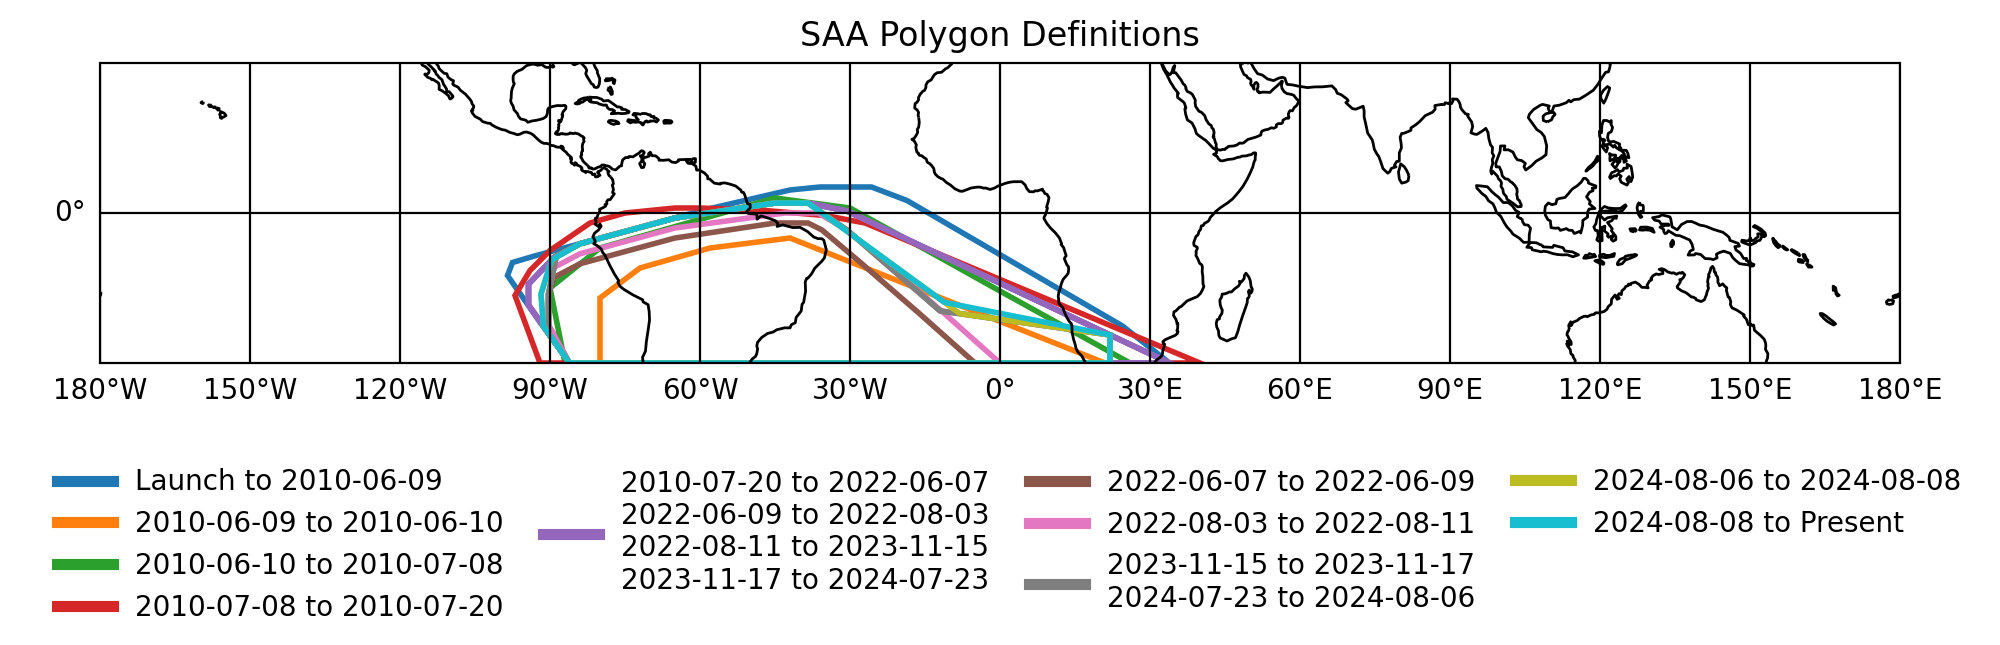
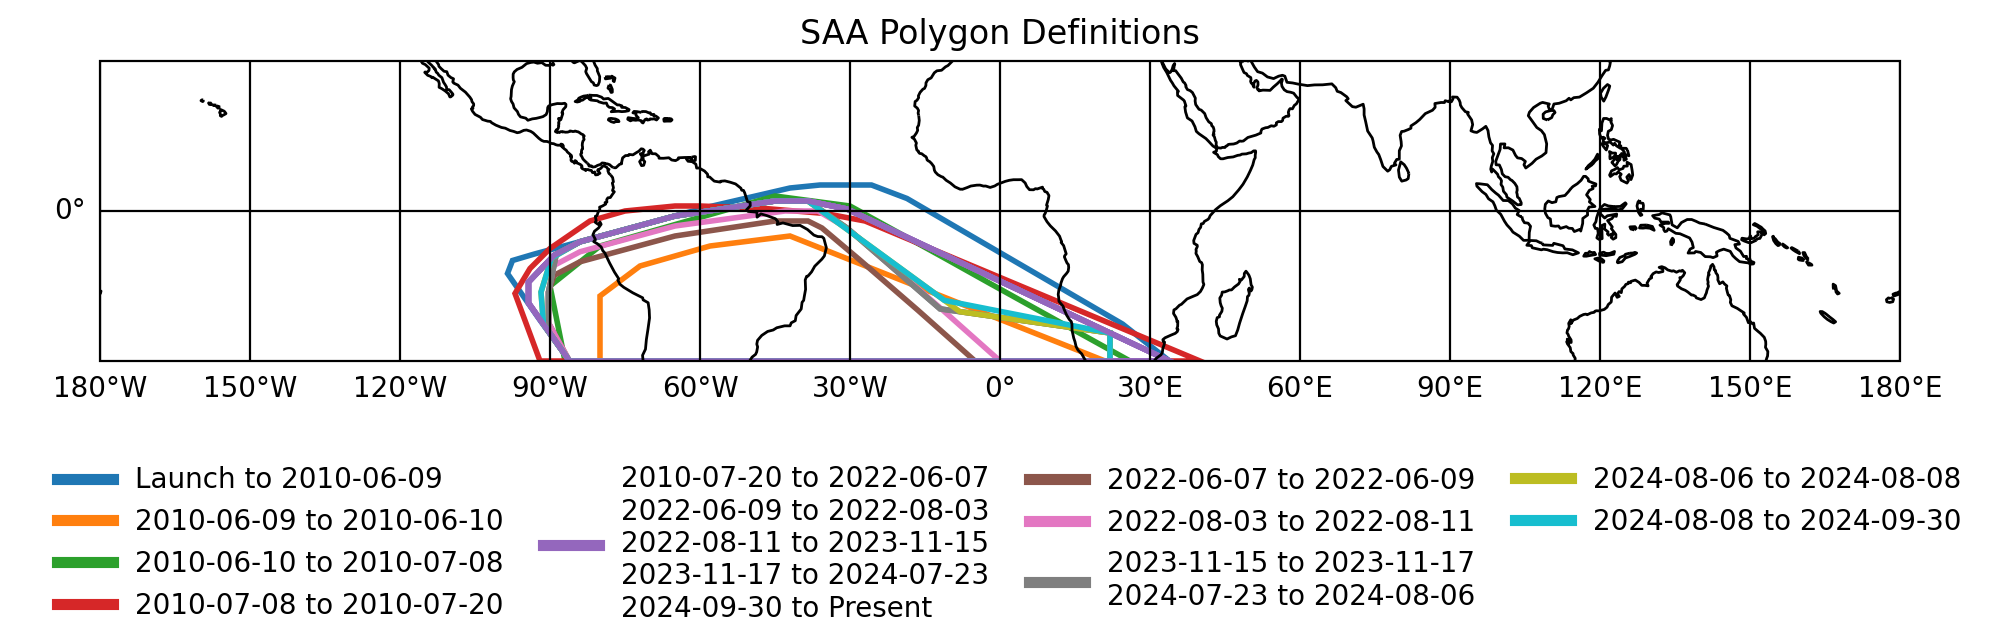
Updating the GBM SAA polygon (#49)
* add latest SAA polygon, which is a reversion to polygon 5

* update unit tests to include new polygon

* updated documentation to include latest SAA change

* add GbmSaaPolygon15 to __all__ and version bump to denote the change

---------

diff --git a/src/gdt/missions/fermi/gbm/saa.py b/src/gdt/missions/fermi/gbm/saa.py
@@ -36,8 +36,8 @@ __all__ = ['GbmSaaPolygon1', 'GbmSaaPolygon2', 'GbmSaaPolygon3',
            'GbmSaaPolygon4', 'GbmSaaPolygon5', 'GbmSaaPolygon6',
            'GbmSaaPolygon7', 'GbmSaaPolygon8', 'GbmSaaPolygon9',
            'GbmSaaPolygon10', 'GbmSaaPolygon11', 'GbmSaaPolygon12',
-           'GbmSaaPolygon13', 'GbmSaaPolygon14', 'GbmSaa',
-           'GbmSaaCollection']
+           'GbmSaaPolygon13', 'GbmSaaPolygon14', 'GbmSaaPolygon15',
+           'GbmSaa', 'GbmSaaCollection']
 
 
 class GbmSaaPolygon1(SouthAtlanticAnomaly):
@@ -234,8 +234,7 @@ class GbmSaaPolygon13(SouthAtlanticAnomaly):
 
 class GbmSaaPolygon14(SouthAtlanticAnomaly):
     """The coordinates of the GBM SAA boundary in latitude and East longitude
-    used from 00:00:00 UTC on August 8, 2024 until mission end which uses a
-    placeholder value of Jan 1, 2050 for now.
+    used from 00:00:00 UTC on August 8, 2024 until 19:20:45 UTC on September 30, 2024.
 
     Note: Minor adjustment to GbmSaaPolygon13 which reduces the number of local
     particle triggers occurring during SAA exit (eastern side of polygon).
@@ -248,6 +247,18 @@ class GbmSaaPolygon14(SouthAtlanticAnomaly):
                   -45.000, -38.400, -30.605, -11.123461787369832, 22.000]
 
     _time_range = Range(Time(744768005, format='fermi'),
+                        Time(749416625, format='fermi'))
+
+
+class GbmSaaPolygon15(GbmSaaPolygon5):
+    """The coordinates of the GBM SAA boundary in latitude and East longitude
+    used from 19:20:45 UTC on September 30, 2024 until mission end which uses a
+    placeholder value of Jan 1, 2050 for now.
+
+    Note: Reversion to the same shape as GbmSaaPolygon5 due to too many
+    local particle triggers.
+    """
+    _time_range = Range(Time(749416850, format='fermi'),
                         Time(1546300805, format='fermi'))
 
 
@@ -267,7 +278,7 @@ class GbmSaaCollection():
             GbmSaaPolygon4(), GbmSaaPolygon5(), GbmSaaPolygon6(),
             GbmSaaPolygon7(), GbmSaaPolygon8(), GbmSaaPolygon9(),
             GbmSaaPolygon10(), GbmSaaPolygon11(), GbmSaaPolygon12(),
-            GbmSaaPolygon13(), GbmSaaPolygon14()]
+            GbmSaaPolygon13(), GbmSaaPolygon14(), GbmSaaPolygon15()]
         self.sort()
 
     def at(self, time: Time):

diff --git a/tests/missions/fermi/gbm/test_saa.py b/tests/missions/fermi/gbm/test_saa.py
@@ -44,7 +44,7 @@ class TestGbmSaa(unittest.TestCase):
         self.t_polygons = [
             148900505, 297842765, 299086681, 300808412, 488816193,
             676400255, 678869577, 681588310, 701846688, 721849115,
-            732696665, 744059705, 744716255, 1145534405
+            732696665, 744059705, 744716255, 747092315, 1147858827
         ]
 
 

diff --git a/src/gdt/missions/fermi/__init__.py b/src/gdt/missions/fermi/__init__.py
@@ -21,4 +21,4 @@
 # implied. See the License for the specific language governing permissions and limitations under the
 # License.
 #
-__version__ = '2.1.2'
+__version__ = '2.1.3'

diff --git a/docs/missions/fermi/gbm/saa.rst b/docs/missions/fermi/gbm/saa.rst
@@ -14,6 +14,7 @@
 .. |GbmSaaPolygon12| replace:: :class:`~gdt.missions.fermi.gbm.saa.GbmSaaPolygon12`
 .. |GbmSaaPolygon13| replace:: :class:`~gdt.missions.fermi.gbm.saa.GbmSaaPolygon13`
 .. |GbmSaaPolygon14| replace:: :class:`~gdt.missions.fermi.gbm.saa.GbmSaaPolygon14`
+.. |GbmSaaPolygon15| replace:: :class:`~gdt.missions.fermi.gbm.saa.GbmSaaPolygon15`
 .. |GbmSaaCollection| replace:: :class:`~gdt.missions.fermi.gbm.saa.GbmSaaCollection`
 .. |FermiEarthPlot| replace:: :class:`~gdt.missions.fermi.plot.FermiEarthPlot`
 
@@ -64,9 +65,12 @@ used over the course of the mission:
 * |GbmSaaPolygon13| **(August 6, 2024 - August 8, 2024):** Minor modification
   to GbmSaaPolygon12 to reduce local particle triggers occurring
   on the western edge of the SAA boundary.
-* |GbmSaaPolygon14| **(August 8, 2024 - Present):** Minor modification
+* |GbmSaaPolygon14| **(August 8, 2024 - September 30, 2024):** Minor modification
   to GbmSaaPolygon13 to reduce local particle triggers occurring
   on the eastern edge of the SAA boundary.
+* |GbmSaaPolygon15| **(September 30, 2024 - Present):** Reversion
+  to GbmSaaPolygon5 shape to handle high particle flux due to solar
+  activity. 
 
 .. image:: saa_figs/all_polygons.png
 
